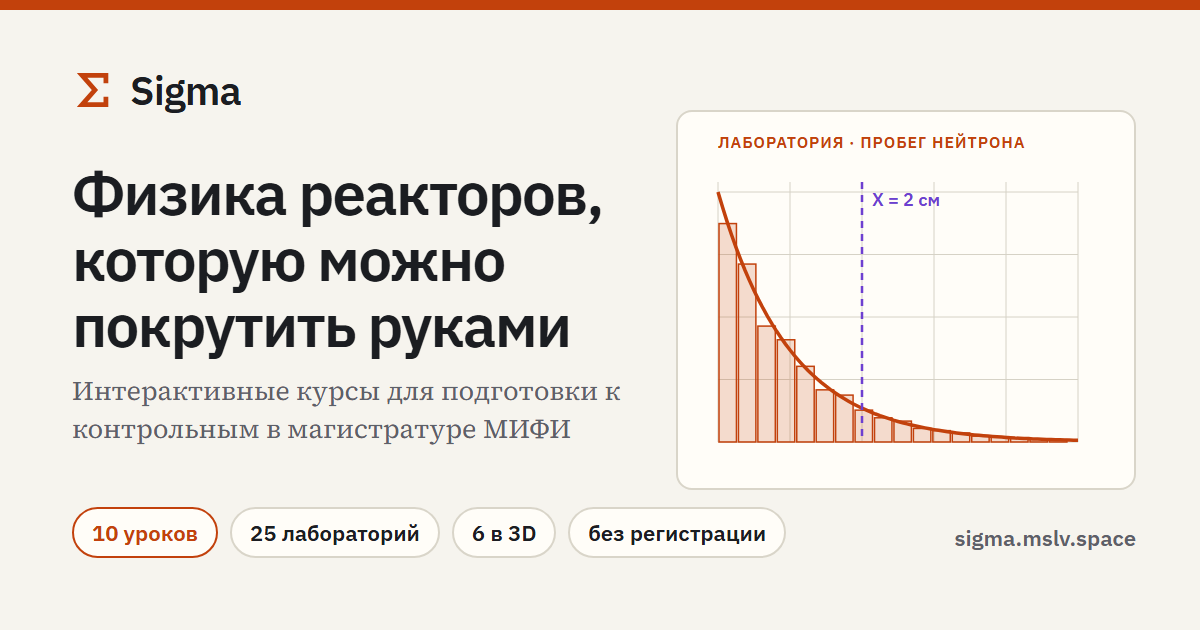
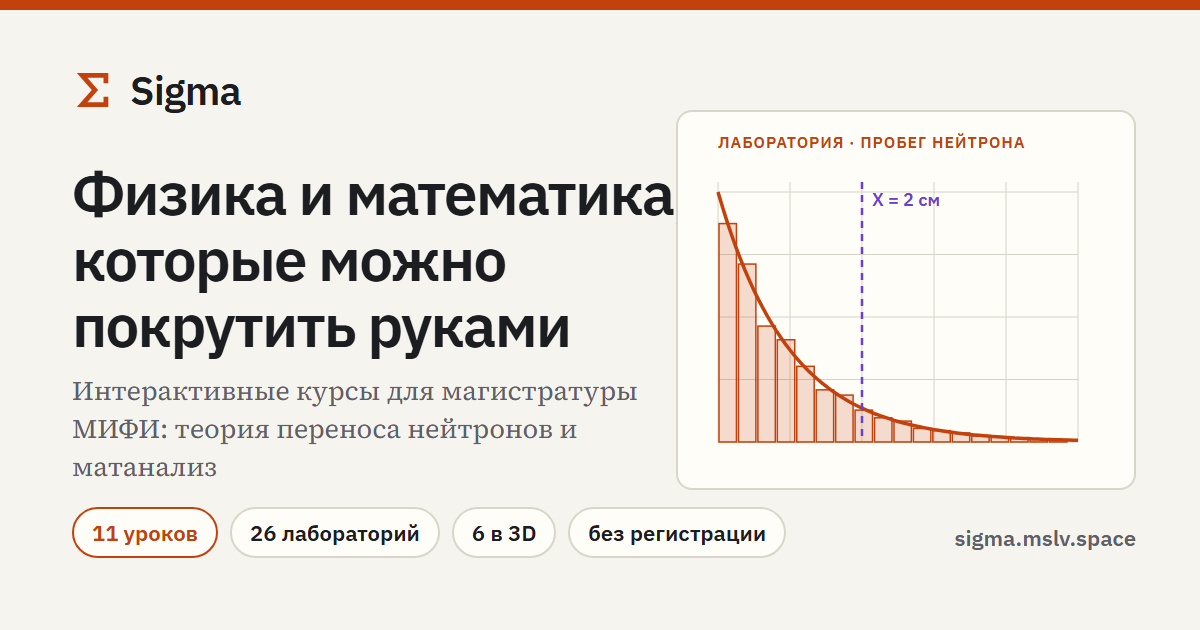
feat(home): главная и превью ссылок для двух курсов
- заголовок «Физика и математика, которые можно покрутить руками»,
  описание сайта — про оба курса
- «Выбрать курс» ведёт к каталогу: с двумя курсами одна кнопка
  «Открыть курс» неоднозначна; «Начать» — в самый полный курс
- в карточках «как устроен урок» — тренажёры и проверка тестами
- og.png перерисован; скрипт считает лабораториями только LabFrame,
  как lessonStats()

diff --git a/src/lib/site.ts b/src/lib/site.ts
@@ -1,8 +1,8 @@
 /** Общие сведения о сайте: мета-теги, подвал, главная. */
 export const SITE = {
   name: 'Sigma',
-  title: 'Sigma — интерактивные курсы по физике реакторов',
-  description: 'Бесплатные интерактивные курсы для подготовки к контрольным и экзаменам в магистратуре МИФИ: теория по учебнику, выводы по шагам, 2D- и 3D-лаборатории, пробная контрольная и шпаргалка формул.',
+  title: 'Sigma — интерактивные курсы по физике и математике',
+  description: 'Бесплатные интерактивные курсы для подготовки к контрольным и экзаменам в магистратуре МИФИ: теория переноса нейтронов и математический анализ. Теория по учебнику со ссылками на главы, 2D- и 3D-лаборатории, тренажёры с проверкой ответа, пробная контрольная и шпаргалка.',
   repo: 'https://github.com/oxolegit/sigma',
   author: 'oxolegit',
   license: { name: 'CC BY 4.0', href: 'https://creativecommons.org/licenses/by/4.0/deed.ru' },
